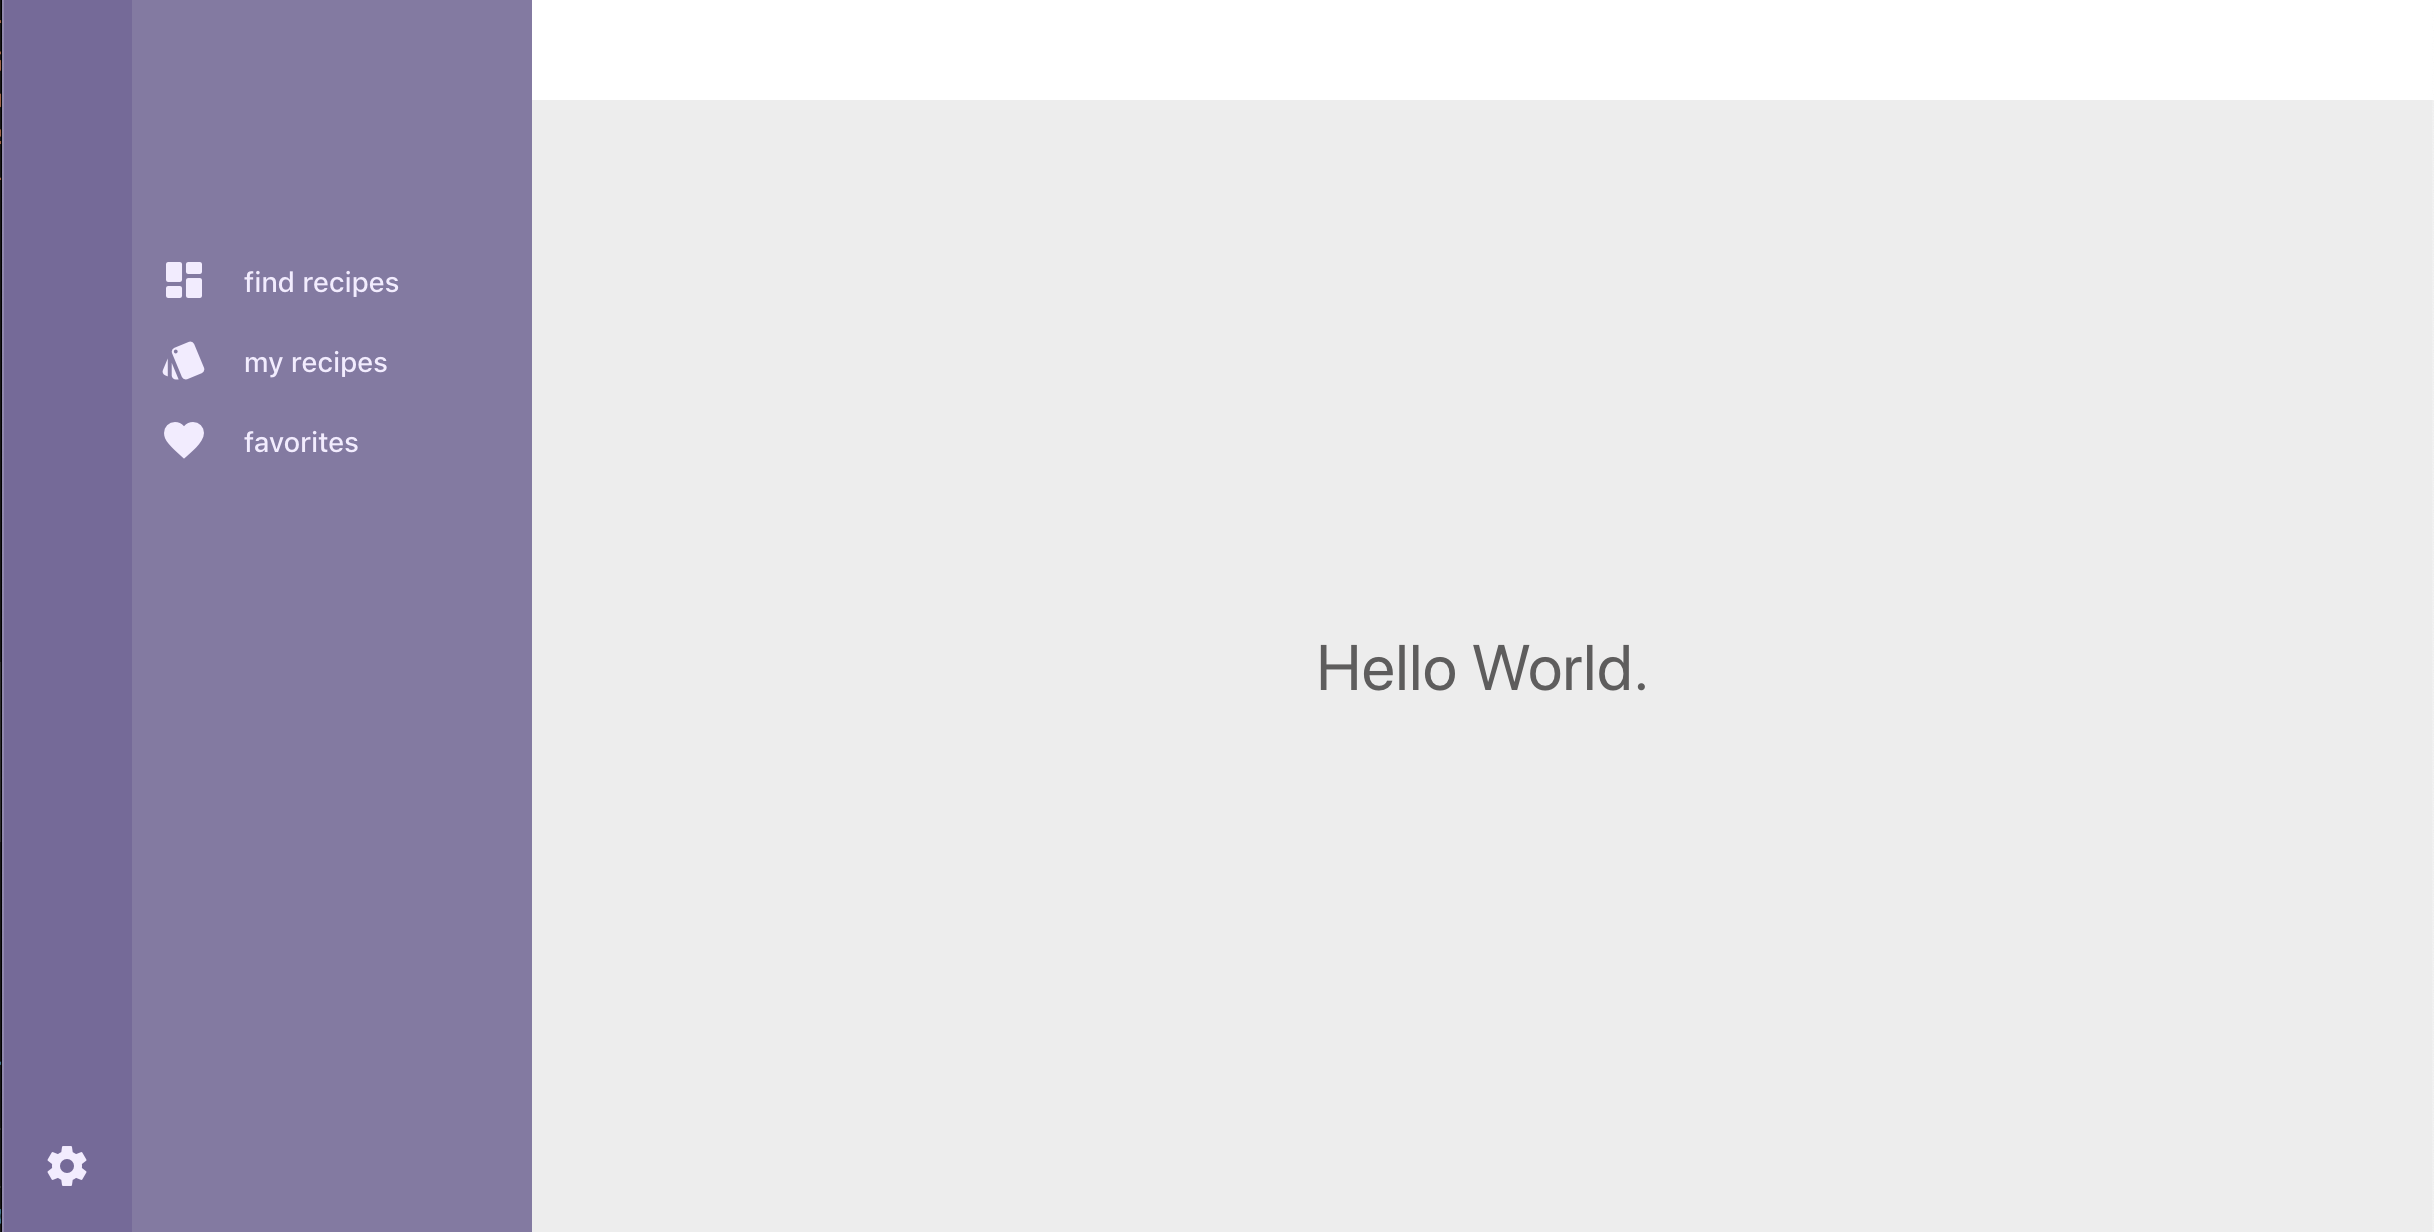
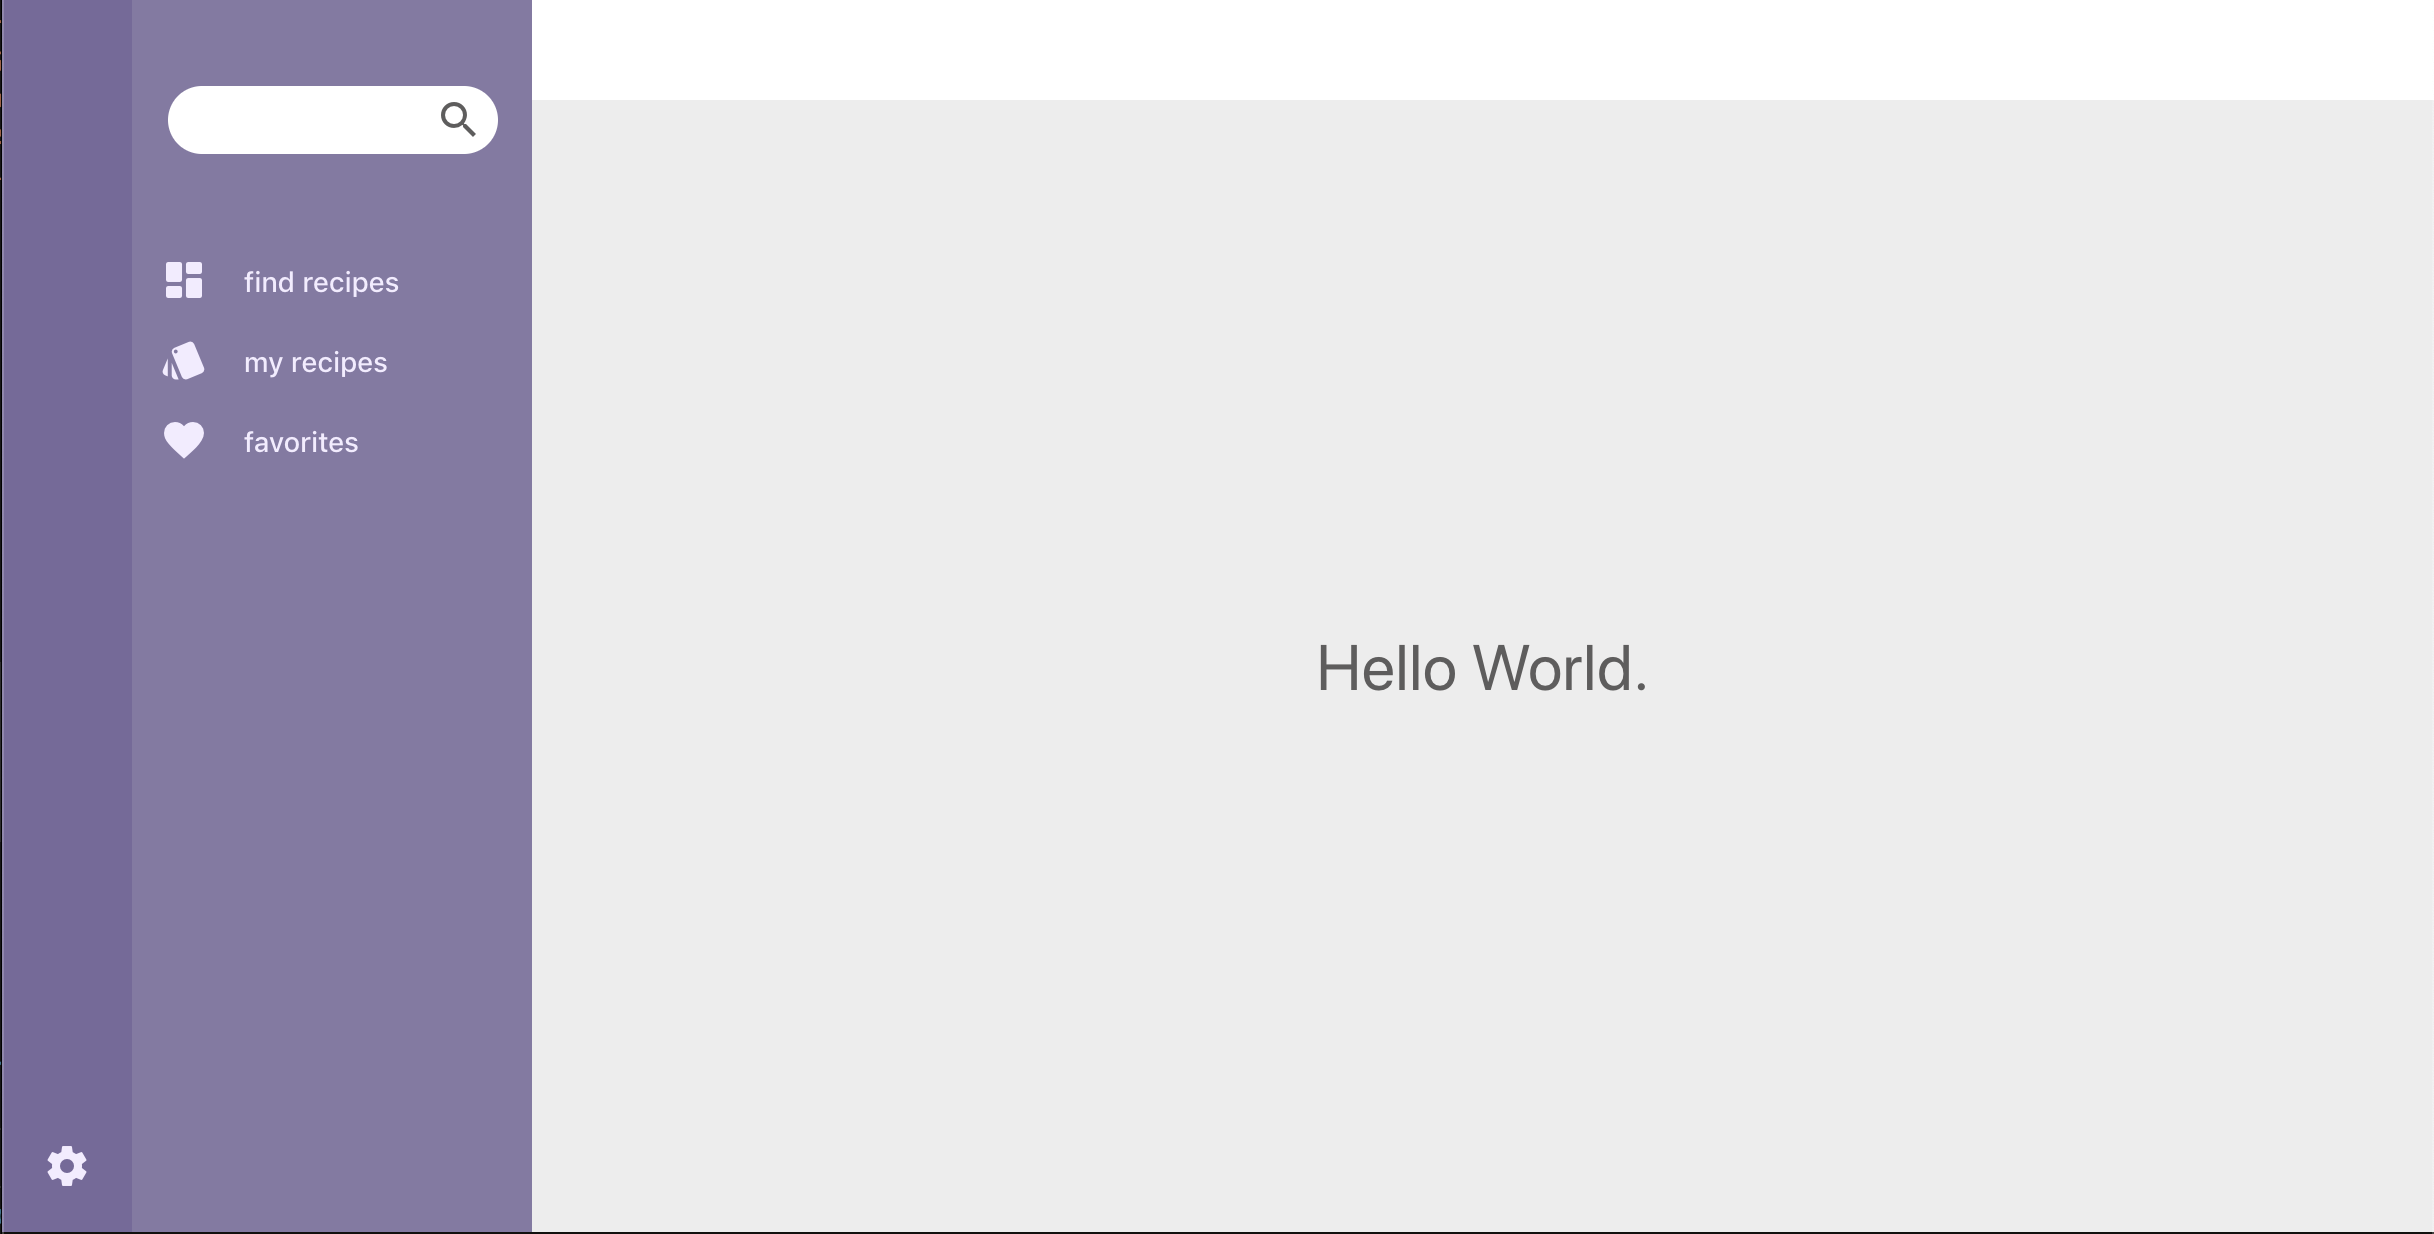
feat(side-bar): add placeholder search bar

Changed region(s): [[0.0, 0.987, 1.0, 1.0], [0.0624, 0.0617, 0.2186, 0.1234], [0.1249, 0.2776, 0.1561, 0.3084]]

diff --git a/web/src/Components/SideBar/_side-bar.scss b/web/src/Components/SideBar/_side-bar.scss
@@ -45,8 +45,36 @@ $primary-width: 200px;
 
     &-header {
       flex: 1;
+      display: flex;
+      justify-content: center;
+      align-items: center;
       min-height: 120px;
       max-height: 40px;
+    }
+
+    &-search {
+      display: flex;
+      align-items: center;
+      background: white;
+      width: 165px;
+      height: 34px;
+      border-radius: 100px;
+
+      &-input {
+        width: 120px;
+        font-size: 14px;
+        margin: 0 0 0 12px;
+        border: none;
+
+        &:focus {
+          outline: none;
+        }
+      }
+
+      i {
+        color: $gray-2;
+        margin: 0 12px 0 auto;
+      }
     }
 
     &-content {

diff --git a/web/src/Components/SideBar/side-bar.js b/web/src/Components/SideBar/side-bar.js
@@ -14,7 +14,13 @@ class SideBar extends Component {
           </div>
         </div>
         <div className="side-bar--primary">
-          <div className="side-bar--primary-header" />
+          <div className="side-bar--primary-header">
+            {/* PLACEHOLDER SEARCH */}
+            <div className="side-bar--primary-search">
+              <input type="text" className="side-bar--primary-search-input" />
+              <i className="material-icons">search</i>
+            </div>
+          </div>
           <div className="side-bar--primary-content">
             {/* FIND RECIPES*/}
             <span className="side-bar--primary-menu-item">
